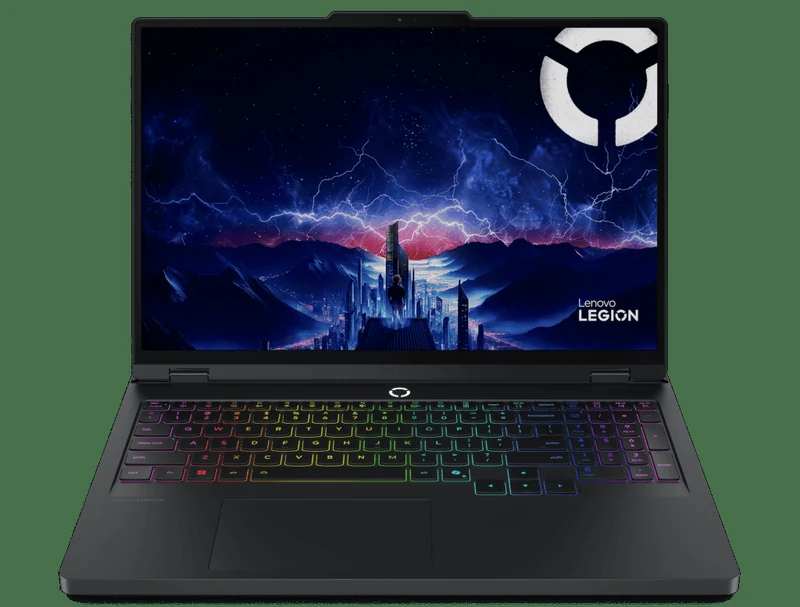
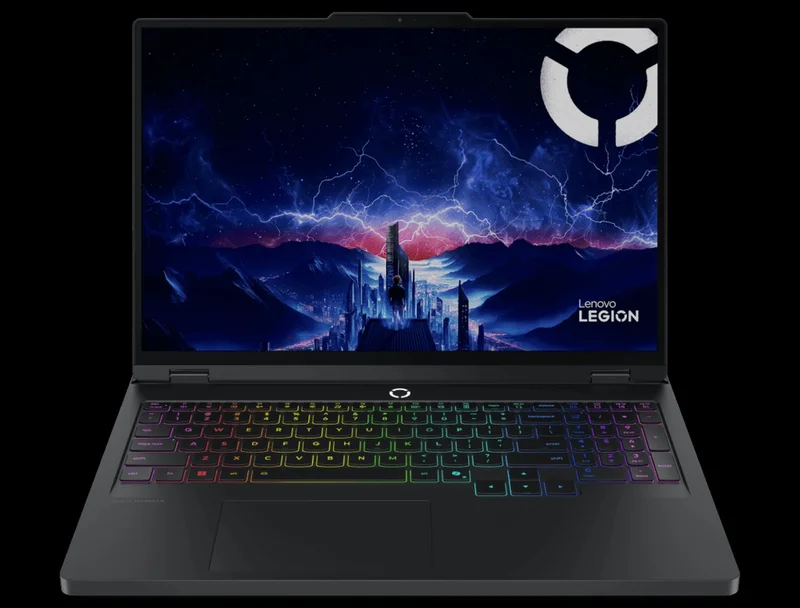
Fix Legion 5 AMD image + omentranscend data-laptop-id
- legion5amd card: reverted img src from lenovo-legion-5i.webp back to
  lenovo-legion-5-amd.webp (5i.webp in repo has greenish background)
- lenovo-legion-5-amd.webp: replaced with clean black background front
  shot (same image as Legion 5i Gen 10, clean product photo)
- omentranscend card: added missing data-laptop-id='hp-victus-16-rtx5060'
  so reviews-sync.js can inject live price data correctly

diff --git a/reviews.html b/reviews.html
@@ -1259,7 +1259,7 @@
 <article class="review-card visible" id="legion5amd" data-cats="mid amd lenovo" data-laptop-id="lenovo-legion-5-gen10-amd">
   <div class="rc-hero">
     <div class="rc-img-wrap">
-      <img src="images/laptops/lenovo-legion-5i.webp"
+      <img src="images/laptops/lenovo-legion-5-amd.webp"
            alt="Lenovo Legion 5 Gen 10 AMD"
            onerror="this.style.display='none'">
       <div class="rc-img-overlay"></div>
@@ -2680,7 +2680,7 @@
 </article>
 
 <!-- HP 3: Omen Transcend 14 — BUDGET -->
-<article class="review-card visible" id="omentranscend" data-cats="budget thin hp">
+<article class="review-card visible" id="omentranscend" data-cats="budget thin hp" data-laptop-id="hp-victus-16-rtx5060">
   <div class="rc-hero">
     <div class="rc-img-wrap">
       <img src="images/laptops/hp-victus-16.webp"
